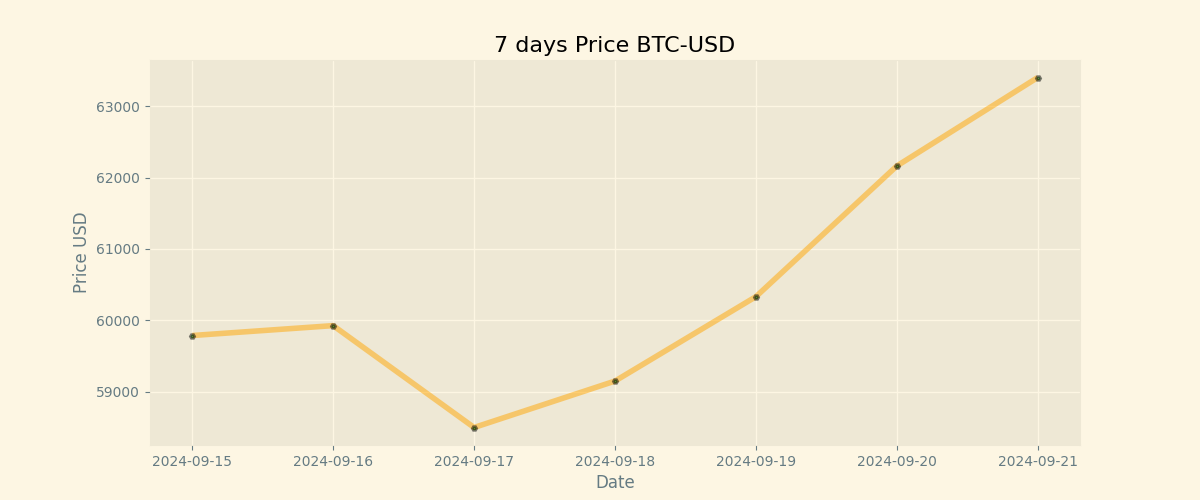
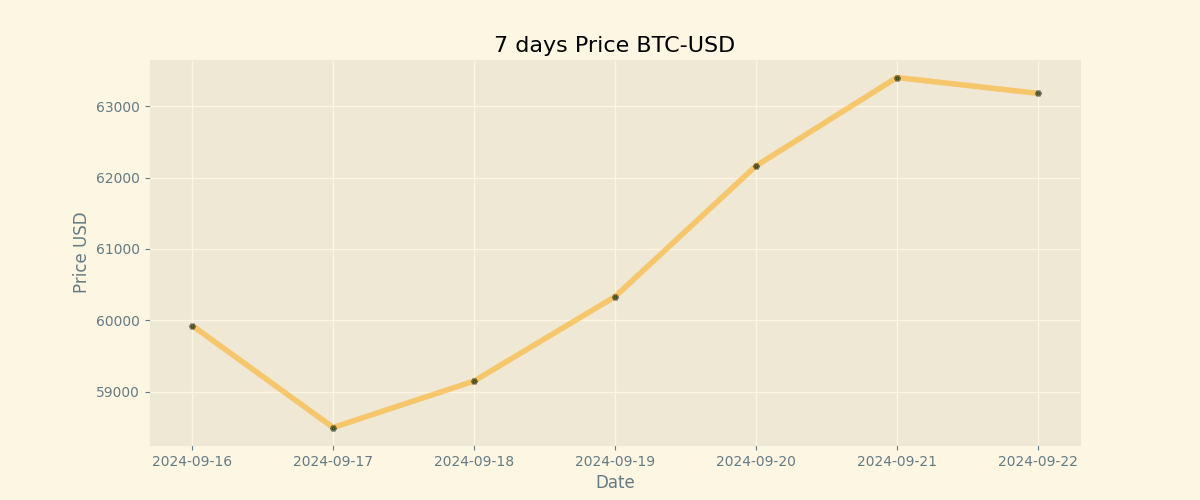
Duty Updates 2024-09-22

diff --git a/README.md b/README.md
@@ -9,8 +9,8 @@
 
 | Currency | Price           |
 | -------- | --------------- |
-| **BTC**  | **$ 63400.0** |
-| **ETH**  | **$ 2543.2** |
+| **BTC**  | **$ 63178.08** |
+| **ETH**  | **$ 2541.76** |
 
 ## BTC chart
 
